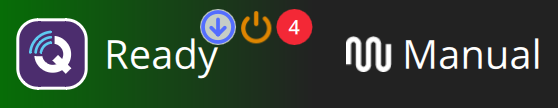
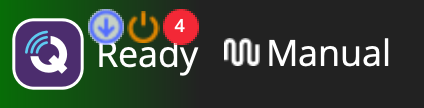
fix(Toolbar): keep main status indicator width fixed as badges appear
The status label's preferred width grew with each visible badge, so the
indicator widened and pushed neighboring toolbar items as badges were
added. The label now reserves a fixed width: the larger of the status
text and the room all three badges need. Badges stay anchored to the
right edge and fill leftward.

Update the badge screenshot in the toolbar docs.

Changed region(s): [[0.0307, 0.0833, 0.9811, 0.8333]]

diff --git a/src/Toolbar/MainStatusIndicator.qml b/src/Toolbar/MainStatusIndicator.qml
@@ -28,9 +28,9 @@ RowLayout {
     QGCLabel {
         id:                 mainStatusLabel
         Layout.fillHeight:  true
-        Layout.preferredWidth: contentWidth + (criticalMessageBadge.visible ? criticalMessageBadge.width / 2 : 0) +
-                               (rebootRequiredIcon.visible ? rebootRequiredIcon.width + rebootRequiredIcon.anchors.rightMargin : 0) +
-                               (firmwareUpdateBadge.visible ? firmwareUpdateBadge.width + firmwareUpdateBadge.anchors.rightMargin : 0)
+        Layout.preferredWidth: Math.max(contentWidth,
+                                        criticalMessageBadge.width + rebootRequiredIcon.width +
+                                        firmwareUpdateBadge.width + ScreenTools.defaultFontPixelWidth * 0.5)
         verticalAlignment:  Text.AlignVCenter
         text:               mainStatusText()
         color:              qgcPal.text
